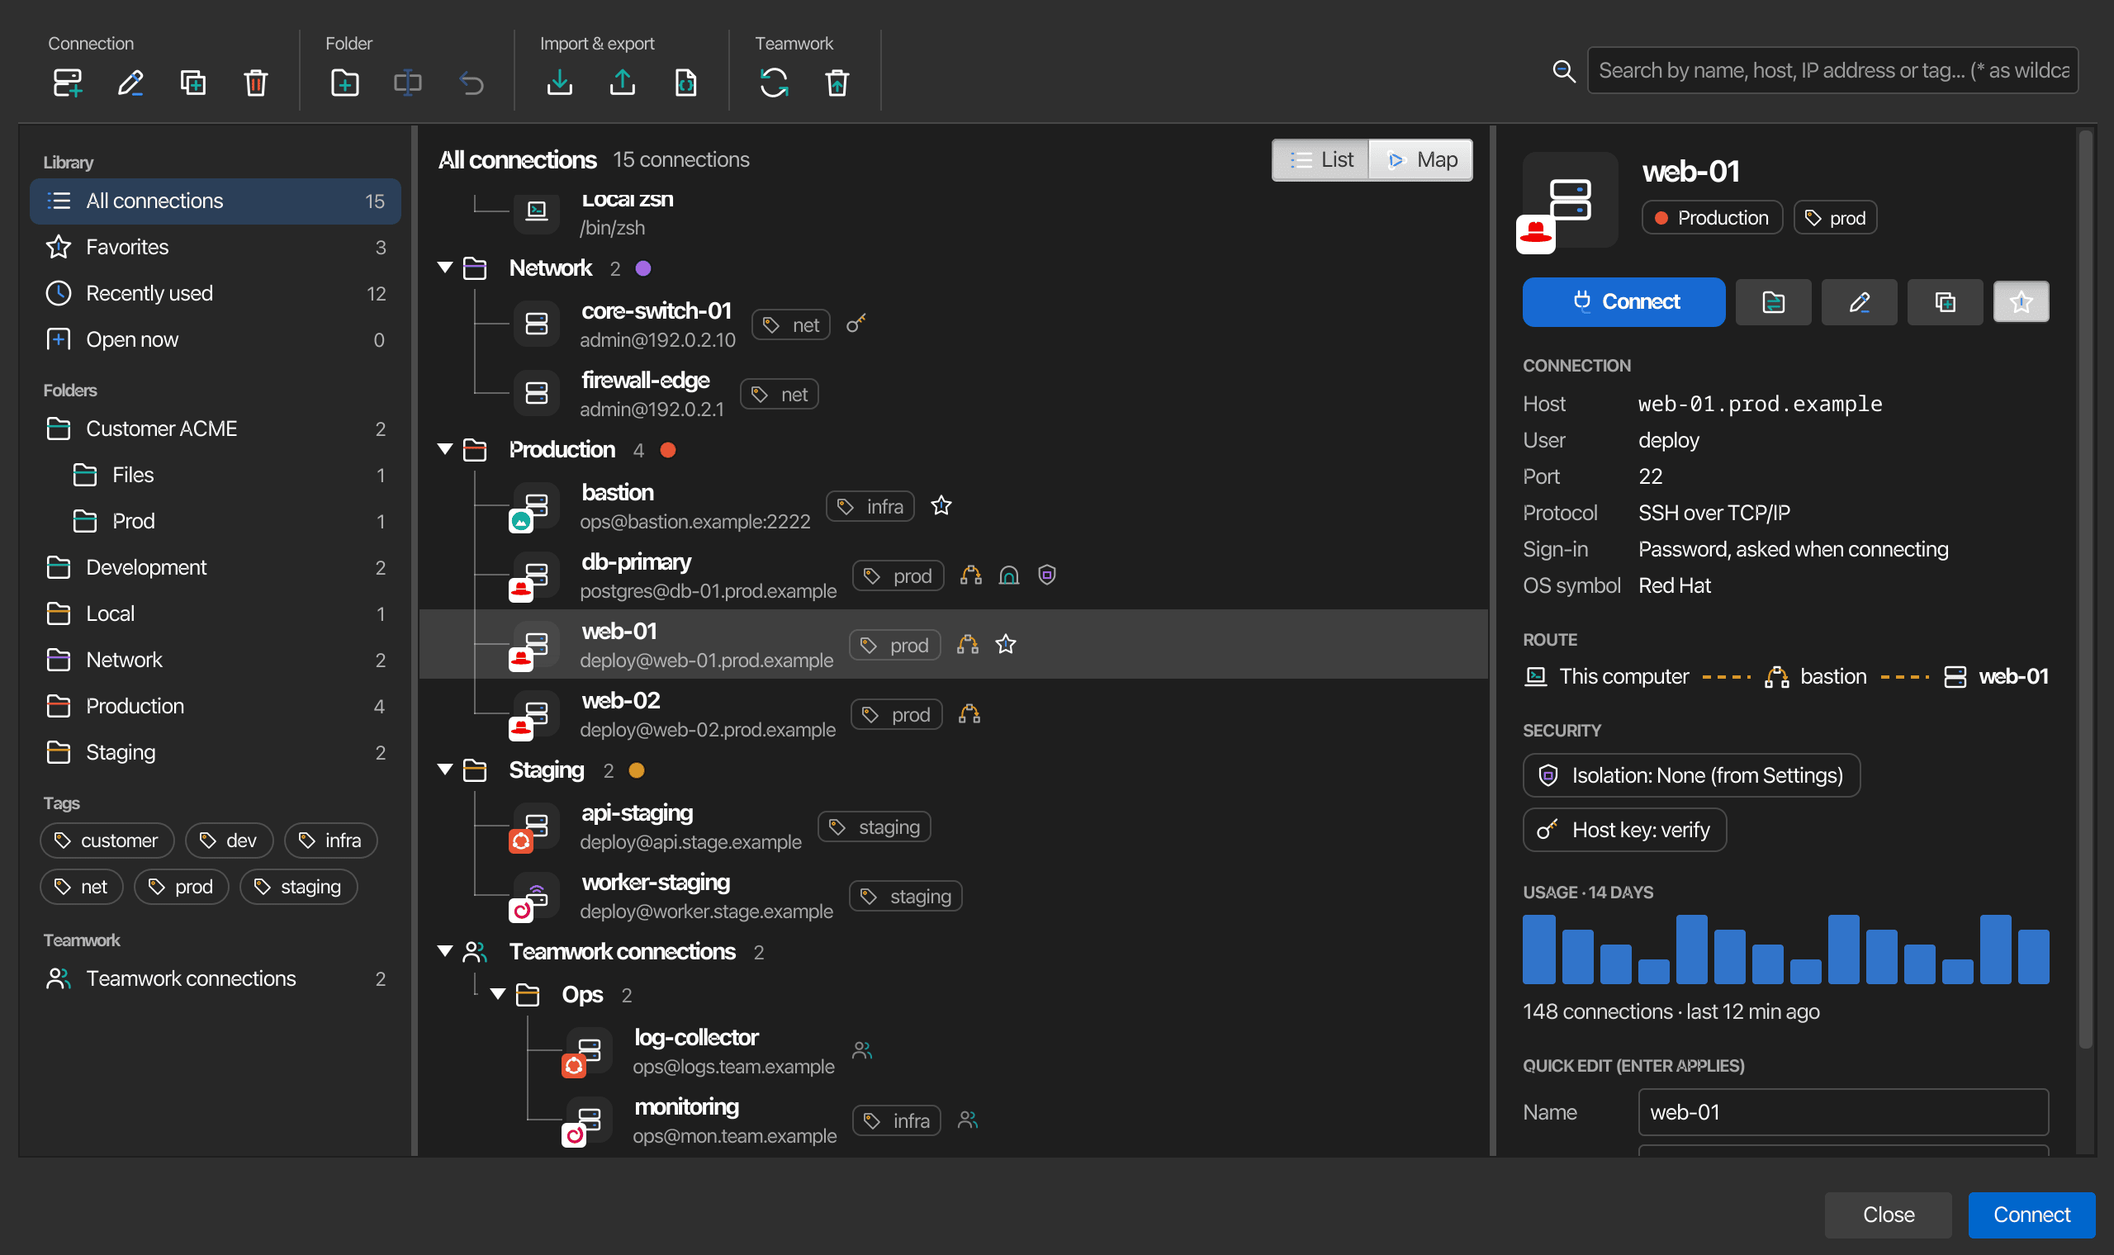
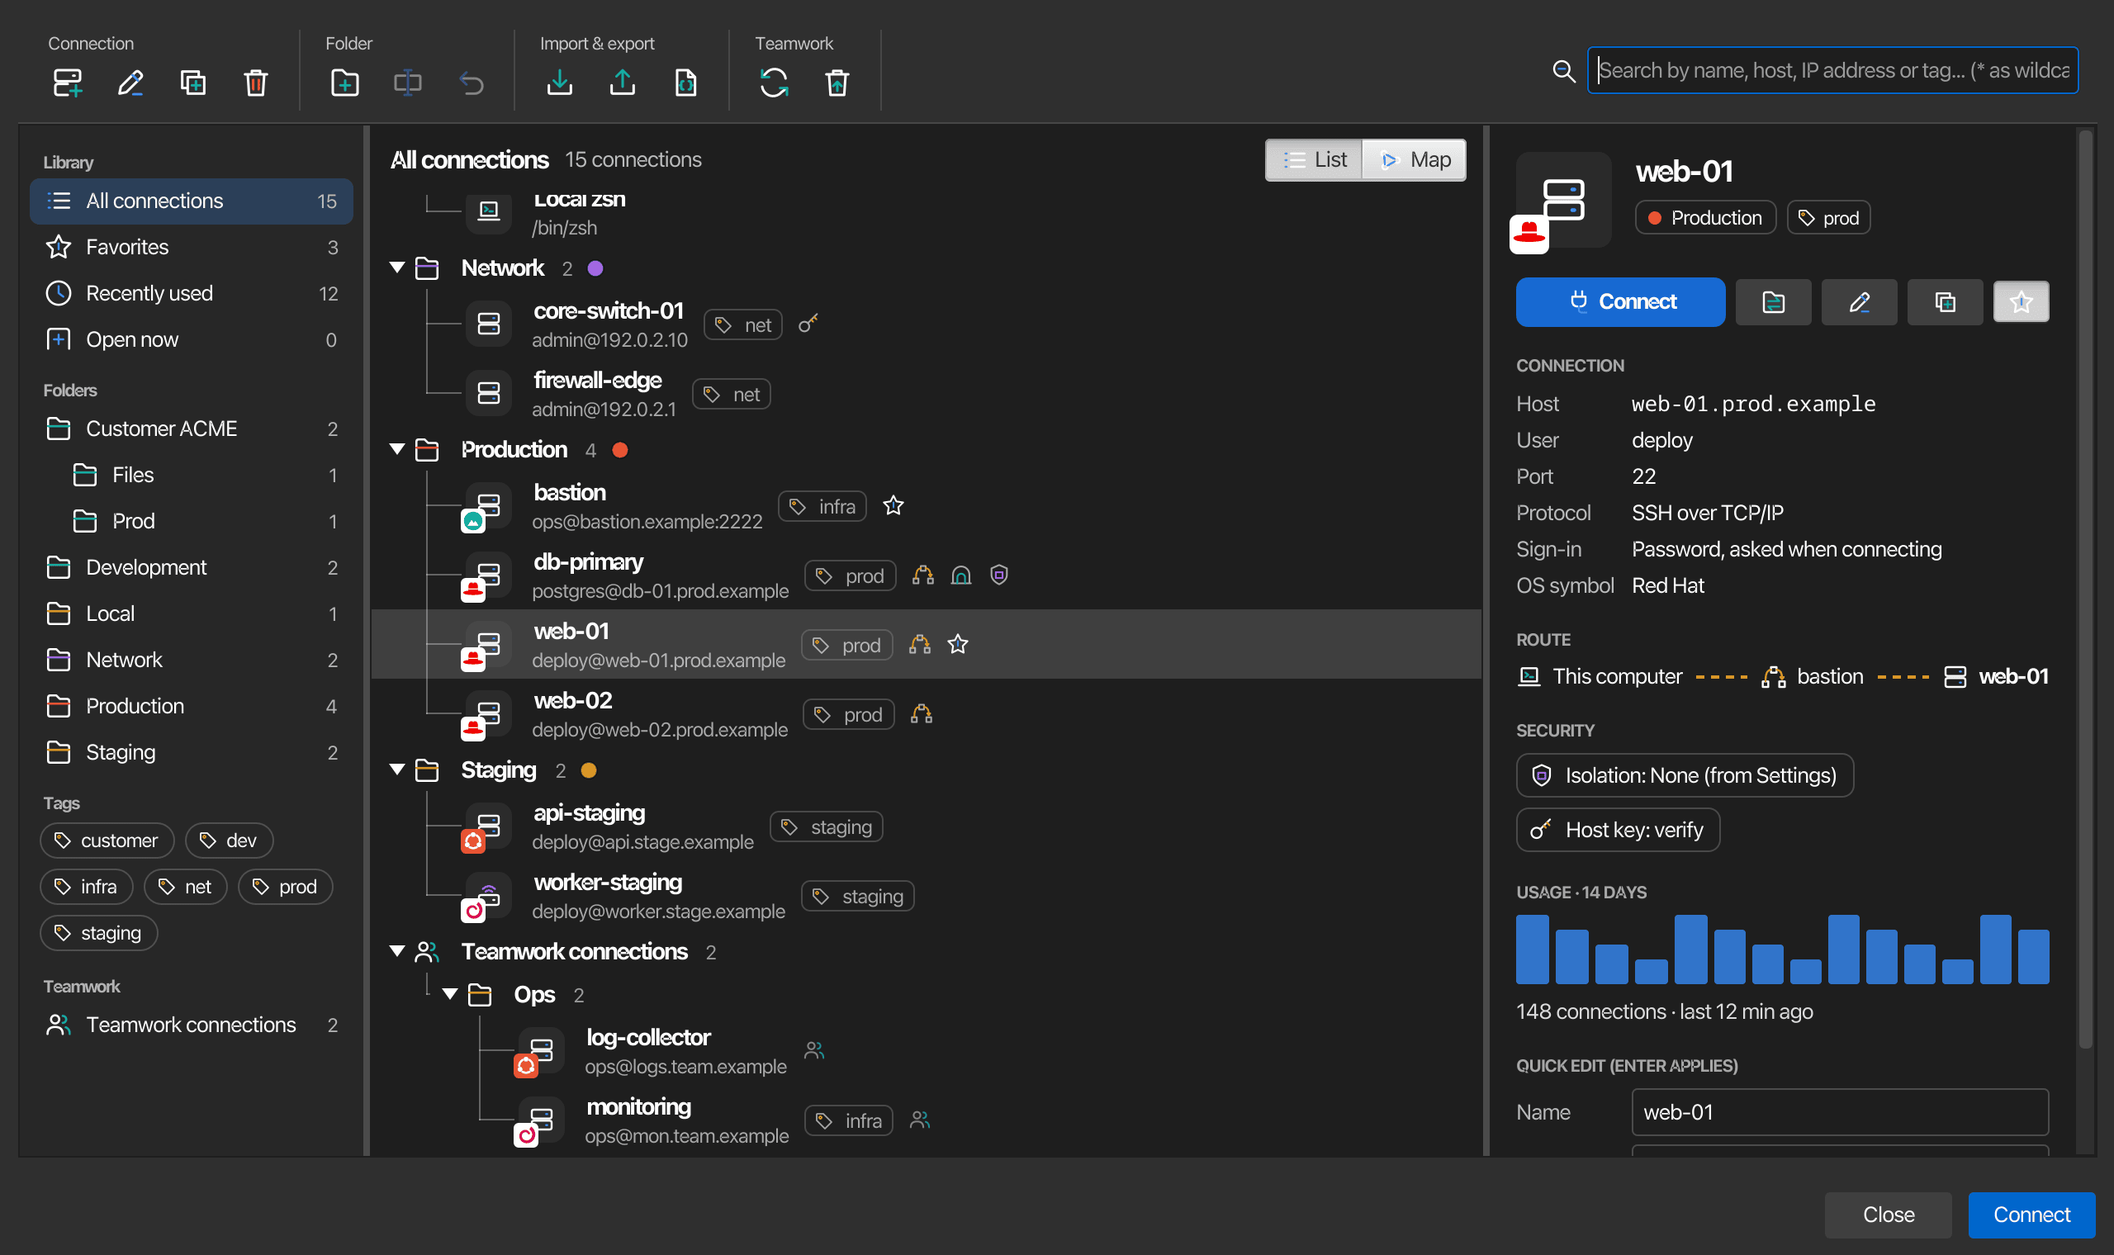
fix(connections): open the inspector wide enough, overview export in context menus
The inspector could end up 250 px wide with Connect squeezed to its icon
and the star cut off. Two causes:

- AtlantaFX caps every dialog pane at 600 px (.dialog-pane
  -fx-max-width), so under the AtlantaFX designs the manager opened at
  its minimum width. A stylesheet rule on the manager's pane lifts the
  cap; a code setter cannot, because the theme stylesheet wins.
- The columns were placed as fractions at the first layout, often at
  that minimum width, and kept their pixel width when the window grew to
  its remembered size. The library and the inspector are now placed at
  210 and 370 px once the window has settled.

The inspector's minimum width is 330 px, which keeps Connect readable
next to the four icon buttons; security chips shorten with an ellipsis
instead of being cut off. The map bar's layer toggles, Fit and PDF may
shorten to their icon in a narrow middle column, so the window minimum
(940 px) holds all three columns.

"Export overview…" is now also in the context menu of connections
(right below Export, for the selection) and of folders (for the
folder's connections, subfolders included). The guide mentions both.

Tested: inspector smoke on the real dialog in Normal/English and
AtlantaFX Cupertino Dark/German, at the default size and with a
remembered 2020 px window: library ~209 px, inspector ~369 px, Connect
and the action row at full width, also at the 330 px minimum; context
menu entries checked in both trees. The Connection Manager test classes
[…]

diff --git a/src/main/resources/styles/connection-manager.css b/src/main/resources/styles/connection-manager.css
@@ -4,6 +4,11 @@
  * tokens, so neither set may be used here. Text colours come from the theme.
  */
 
+/* AtlantaFX caps every dialog pane at 600 px wide; a code setter cannot override a stylesheet. */
+.dialog-pane.cm-dialog {
+    -fx-max-width: 100000;
+}
+
 .cm-toolbar {
     -fx-padding: 6 10 7 10;
     -fx-spacing: 8;

diff --git a/src/main/java/de/kortty/ui/ConnectionManagerDialog.java b/src/main/java/de/kortty/ui/ConnectionManagerDialog.java
@@ -45,6 +45,12 @@ import java.util.stream.Collectors;
 public class ConnectionManagerDialog extends ThemeAwareDialog<ServerConnection> {
     
     private static final Logger logger = LoggerFactory.getLogger(ConnectionManagerDialog.class);
+
+    /** Opening widths of the library and the inspector; the list or map in the middle takes the rest. */
+    private static final double SIDEBAR_WIDTH = 210;
+    private static final double INSPECTOR_WIDTH = 370;
+    /** The inspector never gets narrower than its action row with Connect and the four icon buttons. */
+    private static final double INSPECTOR_MIN_WIDTH = 330;
     
     /** Sentinel value for "use temporary SSH key for all teamwork" in the auth combo. */
     public static final Object TEAMWORK_AUTH_TEMPORARY_KEY = new Object();
@@ -148,6 +154,8 @@ public class ConnectionManagerDialog extends ThemeAwareDialog<ServerConnection> 
         treeView.setOnExportConnections(this::exportConnections);
         treeView.setOnDeleteConnections(this::deleteConnections);
         treeView.setOnExportGroup(this::exportGroup);
+        treeView.setOnExportOverview(this::exportOverview);
+        treeView.setOnExportGroupOverview(this::exportGroupOverview);
         treeView.setOnAddConnection(this::addConnection);
         treeView.setOnAssignTag(this::assignTagToConnections);
         treeView.setOnRemoveTag(this::removeTagFromConnections);
@@ -182,6 +190,7 @@ public class ConnectionManagerDialog extends ThemeAwareDialog<ServerConnection> 
             }
         });
         teamworkTreeView.setOnExportConnections(this::exportConnections);
+        teamworkTreeView.setOnExportOverview(this::exportOverview);
         teamworkTreeView.setOnDeleteConnections(this::deleteConnections);
         teamworkTreeView.setOpenTabsProbe(this::openTabs);
         teamworkTreeView.setFavoriteProbe(this::isFavorite);
@@ -258,7 +267,7 @@ public class ConnectionManagerDialog extends ThemeAwareDialog<ServerConnection> 
             }
         });
         importButton.setOnAction(e -> importConnections());
-        overviewButton.setOnAction(e -> exportOverview());
+        overviewButton.setOnAction(e -> exportOverview(getActiveTreeView().getSelectedConnections()));
         undoButton.setOnAction(e -> treeView.undoLastMove());
         createFolderButton.setOnAction(e -> {
             List<GroupPath> selected = treeView.getSelectedGroups();
@@ -365,7 +374,7 @@ public class ConnectionManagerDialog extends ThemeAwareDialog<ServerConnection> 
         sidebar.setHbarPolicy(ScrollPane.ScrollBarPolicy.NEVER);
         sidebar.getStyleClass().add("cm-sidebar");
         sidebar.setMinWidth(170);
-        inspector.setMinWidth(250);
+        inspector.setMinWidth(INSPECTOR_MIN_WIDTH);
         inspector.setOnConnect(connection -> {
             setResult(connection);
             close();
@@ -402,8 +411,19 @@ public class ConnectionManagerDialog extends ThemeAwareDialog<ServerConnection> 
         getDialogPane().setContent(content);
         getDialogPane().getStylesheets().add(java.util.Objects.requireNonNull(
             getClass().getResource("/styles/connection-manager.css")).toExternalForm());
-        getDialogPane().setPrefSize(1180, 740);
-        getDialogPane().setMinSize(860, 520);
+        getDialogPane().setPrefSize(1240, 760);
+        getDialogPane().setMinSize(940, 520);
+        // Lifts AtlantaFX's 600 px cap on dialog panes (see connection-manager.css), which would hold this
+        // window at its minimum width and ignore a remembered size.
+        getDialogPane().getStyleClass().add("cm-dialog");
+        // A restored window size reaches the split only after the window is shown, so the columns are placed
+        // again at each width it passes through until the window has settled. After the layout pass, because
+        // the split pane hands a width change to its middle column during the pass itself.
+        javafx.beans.value.ChangeListener<Number> placing =
+            (obs, old, width) -> javafx.application.Platform.runLater(() -> placeColumns(split));
+        split.widthProperty().addListener(placing);
+        javafx.animation.PauseTransition settled = new javafx.animation.PauseTransition(javafx.util.Duration.seconds(1));
+        settled.setOnFinished(e -> split.widthProperty().removeListener(placing));
 
         rebuildSidebar();
         applyFilters();
@@ -417,6 +437,8 @@ public class ConnectionManagerDialog extends ThemeAwareDialog<ServerConnection> 
         updateButtonState();
 
         setOnShown(e -> {
+            placeColumns(split);
+            settled.play();
             refreshTeamworkConnections();
             buildTeamworkAuthCombo(teamworkAuthCombo);
             applyTeamworkAuthFromSettings(teamworkAuthCombo, teamworkUsernameField);
@@ -472,6 +494,19 @@ public class ConnectionManagerDialog extends ThemeAwareDialog<ServerConnection> 
         button.setTooltip(new Tooltip(button.getText()));
         button.setAccessibleText(button.getText());
         button.getStyleClass().add("cm-tool");
+    }
+
+    /**
+     * Gives the library and the inspector their widths in pixels once the window has its size. Divider positions
+     * are fractions, so set before the first layout they would follow whatever width the window had at that moment;
+     * both columns then keep their width when the window is resized, only the list or map grows.
+     */
+    private static void placeColumns(SplitPane split) {
+        double width = split.getWidth();
+        if (width <= 0) {
+            return;
+        }
+        split.setDividerPositions(SIDEBAR_WIDTH / width, 1 - INSPECTOR_WIDTH / width);
     }
 
     /** A titled group of toolbar buttons, as the icon toolbar groups its actions. */
@@ -983,8 +1018,18 @@ public class ConnectionManagerDialog extends ThemeAwareDialog<ServerConnection> 
 
     // ----- Overview export -----
 
-    /** Opens the overview export for the selection, the shown connections or all of them. */
-    private void exportOverview() {
+    /** The overview export for a folder: its connections, those of its subfolders included, come preselected. */
+    private void exportGroupOverview(GroupPath groupPath) {
+        List<ServerConnection> inFolder = connectionsInGroup(groupPath);
+        if (inFolder.isEmpty()) {
+            showEmptyFolderAlert(groupPath);
+        } else {
+            exportOverview(inFolder);
+        }
+    }
+
+    /** Opens the overview export for {@code selected}, the shown connections or all of them. */
+    private void exportOverview(List<ServerConnection> selected) {
         GlobalSettings settings = globalSettings();
         List<ServerConnection> all = java.util.stream.Stream.concat(connections.stream(), teamworkConnections.stream())
             .filter(connection -> !connection.isPlaceholder()).toList();
@@ -1000,8 +1045,7 @@ public class ConnectionManagerDialog extends ThemeAwareDialog<ServerConnection> 
                 return badge != null ? badge.name() : null;
             },
             connection -> isSharedConnection(connection) ? teamworkSourceName(connection, settings) : null);
-        new ConnectionOverviewExportDialog(childOwner(), getActiveTreeView().getSelectedConnections(),
-            shownConnections(), all, context).showAndWait();
+        new ConnectionOverviewExportDialog(childOwner(), selected, shownConnections(), all, context).showAndWait();
     }
 
     // ----- OS badges -----

diff --git a/src/main/java/de/kortty/ui/ConnectionManagerTreeView.java b/src/main/java/de/kortty/ui/ConnectionManagerTreeView.java
@@ -49,6 +49,9 @@ public class ConnectionManagerTreeView extends TreeView<ConnectionTreeItem.ItemD
     private Consumer<List<ServerConnection>> onExportConnections;
     private Consumer<List<ServerConnection>> onDeleteConnections;
     private Consumer<GroupPath> onExportGroup;
+    /** Opens the overview export (JSON, YAML, TOML, XML) for the selection or a folder's connections. */
+    private Consumer<List<ServerConnection>> onExportOverview;
+    private Consumer<GroupPath> onExportGroupOverview;
     private Consumer<List<ServerConnection>> onAssignTag;
     private Consumer<List<ServerConnection>> onRemoveTag;
     private Consumer<GroupPath> onAssignTagToGroup;
@@ -726,6 +729,13 @@ public class ConnectionManagerTreeView extends TreeView<ConnectionTreeItem.ItemD
             }
         });
         
+        MenuItem overviewGroupItem = new MenuItem(I18n.get("connectionManager.overview.button"));
+        overviewGroupItem.setOnAction(e -> {
+            if (onExportGroupOverview != null) {
+                onExportGroupOverview.accept(groupPath);
+            }
+        });
+
         MenuItem deleteGroupItem = new MenuItem(I18n.get("connManager.deleteFolder"));
         deleteGroupItem.setOnAction(e -> {
             if (onDeleteGroup != null) {
@@ -783,6 +793,9 @@ public class ConnectionManagerTreeView extends TreeView<ConnectionTreeItem.ItemD
         List<MenuItem> folder = new ArrayList<>();
         if (onExportGroup != null) {
             folder.add(exportGroupItem);
+        }
+        if (onExportGroupOverview != null) {
+            folder.add(overviewGroupItem);
         }
         if (onDeleteGroup != null) {
             folder.add(deleteGroupItem);
@@ -882,6 +895,14 @@ public class ConnectionManagerTreeView extends TreeView<ConnectionTreeItem.ItemD
             }
         });
         
+        MenuItem overviewItem = new MenuItem(I18n.get("connectionManager.overview.button"));
+        overviewItem.setOnAction(e -> {
+            List<ServerConnection> selected = getSelectedConnections();
+            if (!selected.isEmpty() && onExportOverview != null) {
+                onExportOverview.accept(selected);
+            }
+        });
+
         MenuItem deleteItem = new MenuItem(I18n.get("sftp.delete"));
         deleteItem.setOnAction(e -> {
             List<ServerConnection> selected = getSelectedConnections();
@@ -925,6 +946,7 @@ public class ConnectionManagerTreeView extends TreeView<ConnectionTreeItem.ItemD
             List<ServerConnection> selected = getSelectedConnections();
             editItem.setDisable(selected.size() != 1);
             exportItem.setDisable(selected.isEmpty());
+            overviewItem.setDisable(selected.isEmpty());
             deleteItem.setDisable(selected.isEmpty());
             assignTagItem.setDisable(selected.isEmpty());
             removeTagItem.setDisable(selected.stream().allMatch(conn -> conn.getTag() == null));
@@ -948,6 +970,9 @@ public class ConnectionManagerTreeView extends TreeView<ConnectionTreeItem.ItemD
             menu.getItems().add(badges);
         }
         menu.getItems().add(exportItem);
+        if (onExportOverview != null) {
+            menu.getItems().add(overviewItem);
+        }
         if (onAssignTag != null || onRemoveTag != null) {
             menu.getItems().addAll(new SeparatorMenuItem(), assignTagItem, removeTagItem, new SeparatorMenuItem());
         }
@@ -1046,6 +1071,14 @@ public class ConnectionManagerTreeView extends TreeView<ConnectionTreeItem.ItemD
         this.onDeleteConnections = callback;
     }
     
+    public void setOnExportOverview(Consumer<List<ServerConnection>> callback) {
+        this.onExportOverview = callback;
+    }
+
+    public void setOnExportGroupOverview(Consumer<GroupPath> callback) {
+        this.onExportGroupOverview = callback;
+    }
+
     public void setOnExportGroup(Consumer<GroupPath> callback) {
         this.onExportGroup = callback;
     }

diff --git a/src/main/java/de/kortty/ui/ConnectionInspectorPane.java b/src/main/java/de/kortty/ui/ConnectionInspectorPane.java
@@ -205,6 +205,8 @@ final class ConnectionInspectorPane extends ScrollPane {
         Button connect = new Button(I18n.get("quickConnect.connect"),
             ToolbarIcons.create("connect", new javafx.beans.property.SimpleObjectProperty<>(javafx.scene.paint.Color.WHITE), 16));
         connect.getStyleClass().add("cm-primary");
+        // Its label stays readable; the inspector's minimum width leaves room for the icon buttons beside it.
+        connect.setMinWidth(javafx.scene.layout.Region.USE_PREF_SIZE);
         connect.setMaxWidth(Double.MAX_VALUE);
         HBox.setHgrow(connect, Priority.ALWAYS);
         connect.setOnAction(e -> run(onConnect, connection));
@@ -287,6 +289,12 @@ final class ConnectionInspectorPane extends ScrollPane {
         chips.getChildren().add(iconChip("hostKey", I18n.get("connectionManager.inspector.hostKeyChip", facts.hostKey())));
         if (connection.isIncognito()) {
             chips.getChildren().add(iconChip("incognito", I18n.get("connectionManager.row.incognito")));
+        }
+        // A chip wider than the column is shortened with an ellipsis instead of being cut off at the edge.
+        for (Node chip : chips.getChildren()) {
+            Label label = (Label) chip;
+            label.maxWidthProperty().bind(chips.widthProperty());
+            label.setTooltip(new Tooltip(label.getText()));
         }
         return chips;
     }

diff --git a/src/main/java/de/kortty/ui/ConnectionMapView.java b/src/main/java/de/kortty/ui/ConnectionMapView.java
@@ -124,9 +124,13 @@ final class ConnectionMapView extends BorderPane {
         pdf.setTooltip(new Tooltip(I18n.get("connectionManager.map.pdf.tooltip")));
         pdf.setOnAction(e -> exportPdf());
         zoomLabel.setMinWidth(Region.USE_PREF_SIZE);
-        for (javafx.scene.control.Control control : List.of(jumpLayer, tunnelLayer, zoomOut, zoomIn, fit, pdf)) {
-            control.setMinWidth(Region.USE_PREF_SIZE);
-        }
+        zoomOut.setMinWidth(Region.USE_PREF_SIZE);
+        zoomIn.setMinWidth(Region.USE_PREF_SIZE);
+        // In a narrow middle column the layer toggles, Fit and PDF shorten to their icon and an ellipsis instead
+        // of widening the whole Connection Manager; their tooltips keep the full name.
+        jumpLayer.setTooltip(new Tooltip(jumpLayer.getText()));
+        tunnelLayer.setTooltip(new Tooltip(tunnelLayer.getText()));
+        fit.setTooltip(new Tooltip(fit.getText()));
         Label hint = new Label(I18n.get("connectionManager.map.hint"));
         hint.setStyle("-fx-opacity: 0.7; -fx-font-size: 0.9em;");
         hint.setMinWidth(0);

diff --git a/app-docs/site/docs/de/features/connections.md b/app-docs/site/docs/de/features/connections.md
@@ -50,7 +50,7 @@ Eine Verbindung kann das Symbol des Betriebssystems anzeigen, das auf ihrem Serv
 
 ### Exportieren einer Übersicht
 
-**Übersicht exportieren** in der *Austausch*-Gruppe der Symbolleiste erstellt eine Liste Ihrer Server als **JSON**, **YAML**, **TOML** oder **XML**, für Dokumentation oder Skripte. Wählen Sie die Verbindungen (die ausgewählten, die, die der Manager gerade anzeigt, oder alle, einschließlich Teamwork-Verbindungen), das Format und die Bestandteile jedes Eintrags:
+**Übersicht exportieren** in der *Austausch*-Gruppe der Symbolleiste oder im Kontextmenü der ausgewählten Verbindungen oder eines Ordners erstellt eine Übersicht Ihrer Server als **JSON**, **YAML**, **TOML** oder **XML**, für Dokumentation oder Skripte. Wählen Sie die Verbindungen (die ausgewählten oder die des Ordners, die der Manager gerade anzeigt, oder alle einschließlich Teamwork-Verbindungen), das Format und die Teile jedes Eintrags:
 
 | Teil | Inhalt |
 | --- | --- |

diff --git a/app-docs/site/docs/en/features/connections.md b/app-docs/site/docs/en/features/connections.md
@@ -50,7 +50,7 @@ A connection can show the symbol of the operating system its server runs, on the
 
 ### Exporting an overview
 
-**Export overview** in the toolbar's *Import & export* group writes an inventory of your servers as **JSON**, **YAML**, **TOML** or **XML**, for documentation or scripts. Choose the connections (the selected ones, what the manager shows right now, or all of them including teamwork connections), the format and the parts of each entry:
+**Export overview** in the toolbar's *Import & export* group, or in the context menu of the selected connections or of a folder, writes an inventory of your servers as **JSON**, **YAML**, **TOML** or **XML**, for documentation or scripts. Choose the connections (the selected ones or the folder's, what the manager shows right now, or all of them including teamwork connections), the format and the parts of each entry:
 
 | Part | Contents |
 | --- | --- |
